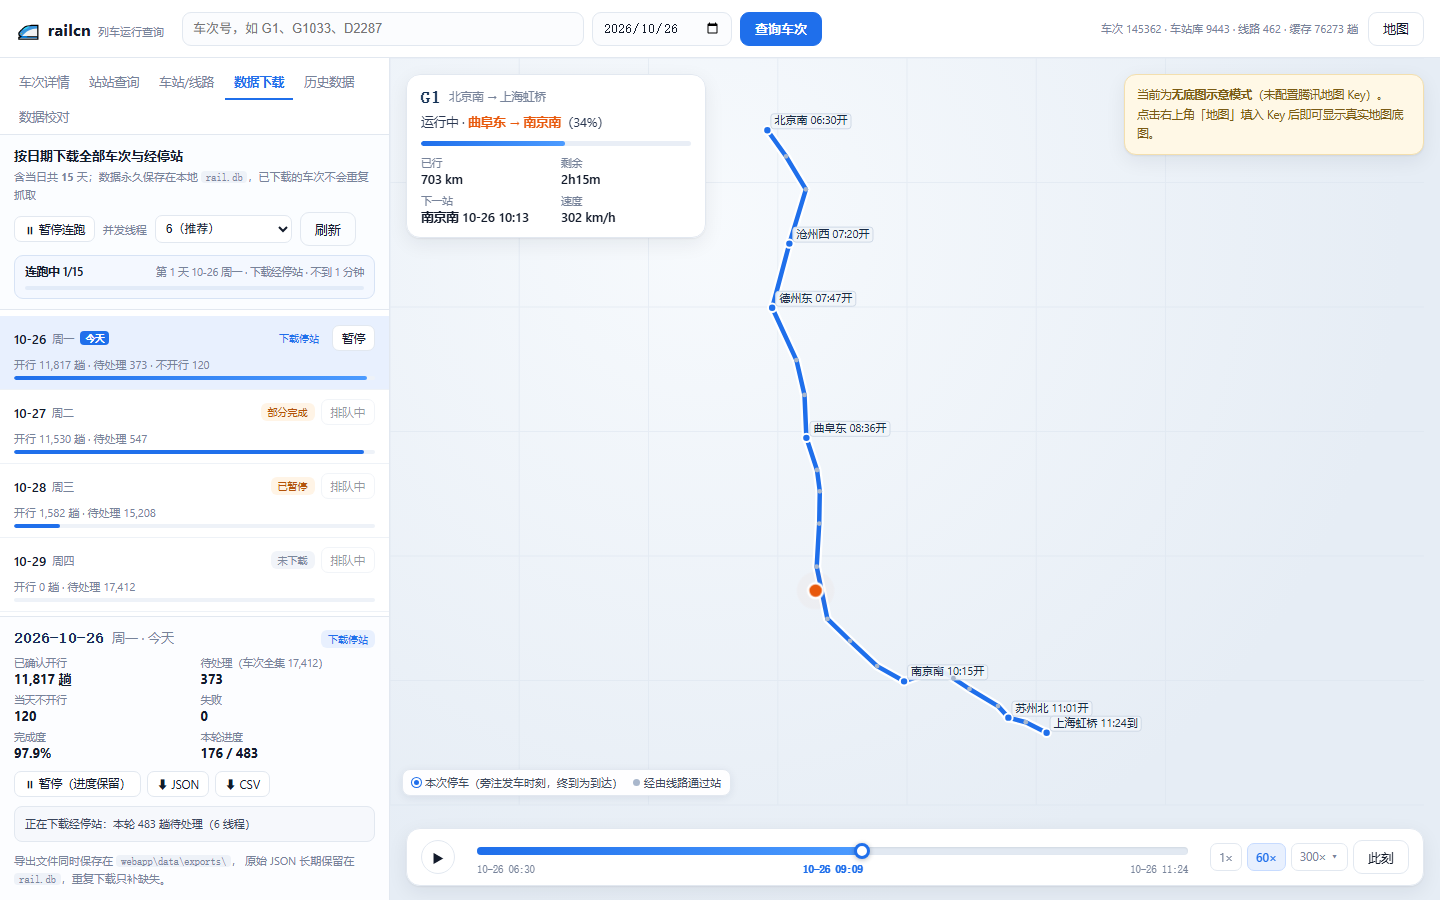
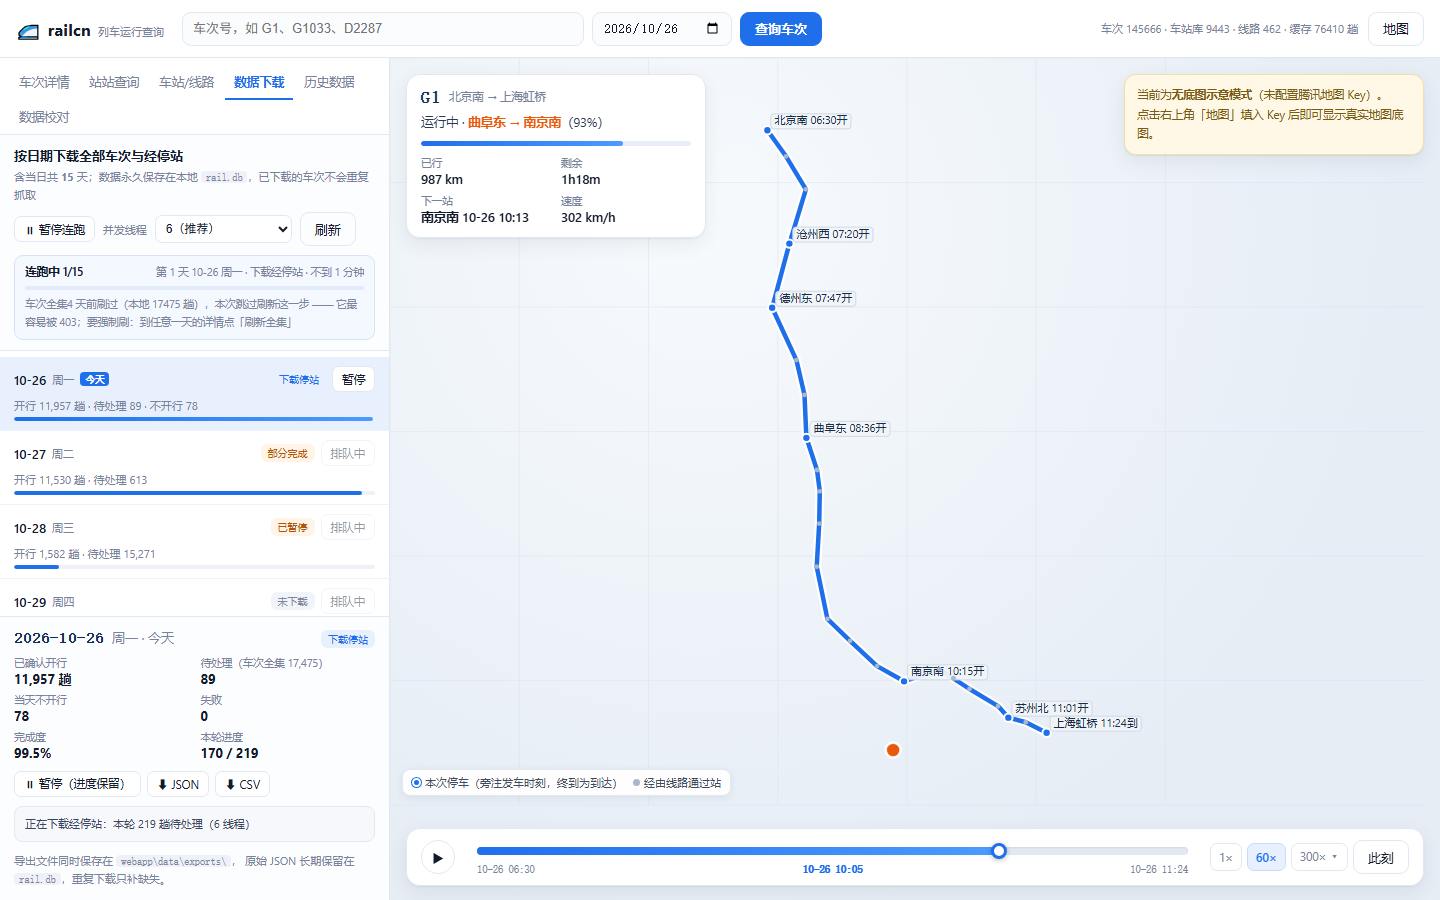
连跑别再把自己跑进 403：全集默认不刷、退避记忆跨天、换天冷却
问题：改成一键连跑后，403 比手动点明显变多。三个原因：

1. 每次连跑都以「刷新全集」开场 —— 那一步要发 800+ 个搜索请求
   （81 个一位前缀 + 顶到单页上限的前缀再细分），是全流程最紧的接口；
   以前这是详情页里的可选按钮，现在变成了默认第一步。
2. 天与天之间没有间隔，15 天连着跑就是几小时不间断请求，
   把原来「跑一天就停」的暴露窗口放大十几倍。
3. 我抽出的 _reset_job 把 job._delay 写死回 0.45，把被限流拉长过的
   自适应退避（最高 3 秒）在换天 / 继续时清零 —— 一恢复就满速撞墙。这是回归。

改动：
- 全集刷新改用最近一次枚举时间判断：7 天内刷过就跳过（失败的尝试也算），
  横幅写明跳过原因和强制刷新的入口；枚举开始时记 enum_try 日志
- 枚举只细分「返回 >= 195 条」的前缀（以前 81 个词无条件全细分）
- 新增 _THROTTLE 全局退避记忆：被限流拉长的间隔跨天 / 跨任务继承，
  顺利时每趟慢慢降 0.002，半小时没出事才回到 0.45
- 换天冷却 60 秒，上一天有失败或仍在退避则 180 秒（可被暂停打断）
- 横幅新增 note 行；暂停时显示「停于 HH:MM」，不再显示无意义的「不到 1 分钟」
- 文档与测试同步：test_chain.py 增加「全集刚刷过→跳过」「枚举只细分必要前缀」两项

另：修掉调试探针误写进 rail.db 的 3 行假车次（G0/G1/G2 的 train_no 被改成 X0/X1/X2），
已按次日真值还原 G1/G2 并删除 G0，探针产生的假枚举日志也一并清掉。

diff --git a/webapp/static/app.js b/webapp/static/app.js
@@ -2891,6 +2891,7 @@ function dlRenderChain() {
   const row = DL.dates.find(x => x.date === c.curDate);
   const wd = row ? ' ' + row.weekday : '';
   const phase = c.phase === 'enum' ? '刷新车次全集'
+    : c.phase === 'gap' ? '换天冷却'
     : c.status === 'running' ? '下载经停站' : '';
 
   const head = st === 'running' ? `连跑中 ${Math.min(c.total, c.index + 1)}/${c.total}`
@@ -2904,14 +2905,20 @@ function dlRenderChain() {
   } else {
     if (day) meta.push(`第 ${c.index + 1} 天 ${day}${wd}`);
     if (phase) meta.push(phase);
+    if (st === 'running') {
+      const el = chainElapsed(c);
+      if (el) meta.push(el);
+    } else if (c.updatedAt) {
+      meta.push(`停于 ${fmtStamp(c.updatedAt * 1000)}`);
+    }
   }
-  const el = chainElapsed(c);
-  if (el) meta.push(el);
 
   const resume = (st === 'paused' || st === 'error')
     ? '<button class="btn sm" data-act="resume">继续</button>' : '';
-  const msg = c.message && (st !== 'running' || c.phase === 'enum')
+  const msg = c.message && (st !== 'running' || c.phase === 'enum' || c.phase === 'gap')
     ? `<div class="dl-chain-msg">${esc(c.message)}</div>` : '';
+  const note = (st === 'running' && c.note)
+    ? `<div class="dl-chain-note">${esc(c.note)}</div>` : '';
 
   box.innerHTML = `<div class="dl-chain-box ${st}">
       <div class="dl-chain-top">
@@ -2919,7 +2926,7 @@ function dlRenderChain() {
         <span class="m">${meta.join(' · ')}</span>
       </div>
       <div class="dl-chain-bar"><i style="width:${pct}%"></i></div>
-      ${msg}
+      ${note}${msg}
     </div>`;
 
   const rb = $('[data-act="resume"]', box);
@@ -2958,6 +2965,9 @@ function dlRenderList() {
       act = '<button class="btn sm" data-act="stop">暂停</button>';
     } else if (chRun && DL.chain.curDate !== s.date) {
       act = '<button class="btn sm" disabled>排队中</button>';
+    } else if (chRun) {
+      act = `<button class="btn sm" disabled>${
+        DL.chain.phase === 'enum' ? '刷新全集中' : DL.chain.phase === 'gap' ? '冷却中' : '排队中'}</button>`;
     } else {
       act = `<button class="btn sm${s.pending || !s.trains ? ' primary' : ''}" data-act="start">${
         s.trains && !s.pending ? '校验' : '下载'}</button>`;

diff --git a/webapp/static/style.css b/webapp/static/style.css
@@ -282,6 +282,7 @@ main{flex:1;display:flex;min-height:0}
   background:linear-gradient(90deg,var(--accent),#4c9bff);transition:width .4s}
 .dl-chain-box.done .dl-chain-bar i{background:var(--ok)}
 .dl-chain-msg{margin-top:6px;font-size:10.5px;color:#4a5768;line-height:1.65;white-space:pre-wrap}
+.dl-chain-note{margin-top:6px;font-size:10.5px;color:#7a879c;line-height:1.65}
 .btn[disabled]{opacity:.45;cursor:default;box-shadow:none}
 code.inline{background:#eef2f8;padding:1px 5px;border-radius:4px;font-size:10.5px}
 

diff --git a/scripts/test_chain.py b/scripts/test_chain.py
@@ -48,6 +48,7 @@ with sqlite3.connect(TMP) as c:                 # 车次全集直接落库，走
     )
 
 ENUM_CALLS = []
+REAL_ENUM = collector.enumerate_trains        # 备份真身，第 6 步要用
 
 
 def fake_enum(job, date, delay=2.0):
@@ -69,6 +70,10 @@ def fake_stops(slow=0.0, empty_for=()):
 
 collector.enumerate_trains = fake_enum
 collector._stops = fake_stops()
+# 测试里把「换天冷却」和「全集刷新间隔」压掉，否则要等十几分钟
+collector.CHAIN_GAP = 0.05
+collector.CHAIN_GAP_BAD = 0.05
+collector.ENUM_MIN_UNIVERSE = 1
 
 today = dt.date.today()
 PLAN = [(today + dt.timedelta(days=i)).isoformat() for i in range(3)]
@@ -152,5 +157,41 @@ print("  恢复 ->", st["status"], st["index"], st["curDate"], st["message"])
 assert st["status"] == "paused", st["status"]
 assert st["index"] == 1
 assert st["curDate"] == PLAN[1]
+
+print("\n== 5. 全集刚刷过 → 连跑不再重复刷（一次近 900 个搜索请求，最容易被 403）==")
+with sqlite3.connect(TMP) as c:
+    c.execute("INSERT INTO collect_log (date, ts, kind, msg) VALUES (?,?,?,?)",
+              (PLAN[0], time.time(), "enum", "车次全集已刷新，本次拿到 3 趟"))
+collector._CHAIN = None
+collector._stops = fake_stops()
+res = collector.chain_start(workers=2, do_enum=True)
+print("  enum 开关:", res["enum"], "| note:", res["note"])
+assert res["enum"] is False, res
+assert "跳过刷新" in (res["note"] or ""), res["note"]
+for _ in range(600):
+    if collector.chain_status()["status"] in ("done", "error", "paused"):
+        break
+    time.sleep(0.05)
+print("  最终:", collector.chain_status()["status"])
+
+print("\n== 6. 刷新全集：只细分顶到单页上限的前缀（以前 891 个请求）==")
+calls = []
+
+
+def fake_search(keyword, date_compact, retries=2):
+    calls.append(keyword)
+    n = 200 if keyword == "G1" else 4        # 只有 G1 顶到上限
+    return ("ok", [{"station_train_code": f"{keyword}{i:03d}",
+                    "train_no": f"X{i}", "from_station": "甲",
+                    "to_station": "乙", "total_num": 3} for i in range(n)])
+
+
+collector._search = fake_search
+collector.enumerate_trains = REAL_ENUM
+job = collector.Job(PLAN[0], 4)
+collector.enumerate_trains(job, PLAN[0], delay=0)
+print("  搜索请求数:", len(calls), "（81 个一位前缀 + 10 个细分）")
+assert len(calls) == 91, len(calls)
+assert calls[81:].count("G1") == 0 and "G10" in calls[81:]
 
 print("\n全部通过 ✓")
